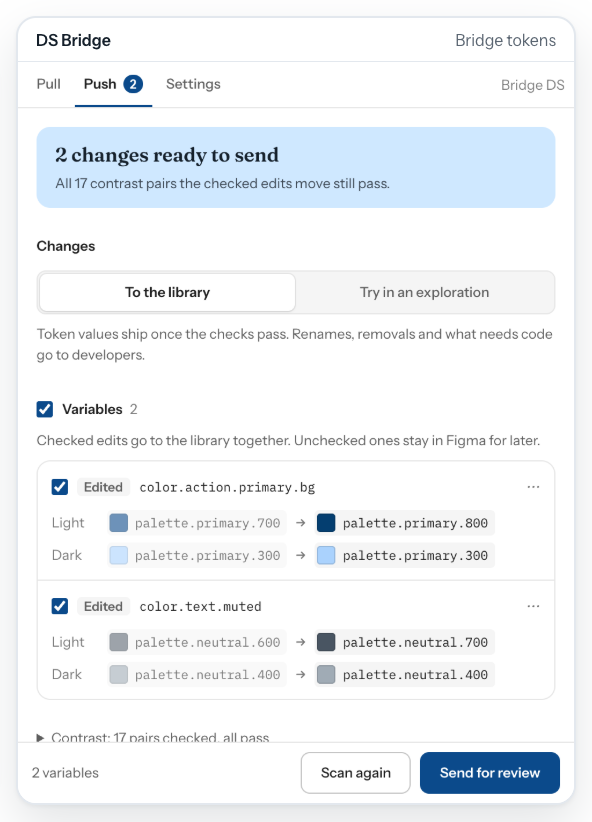
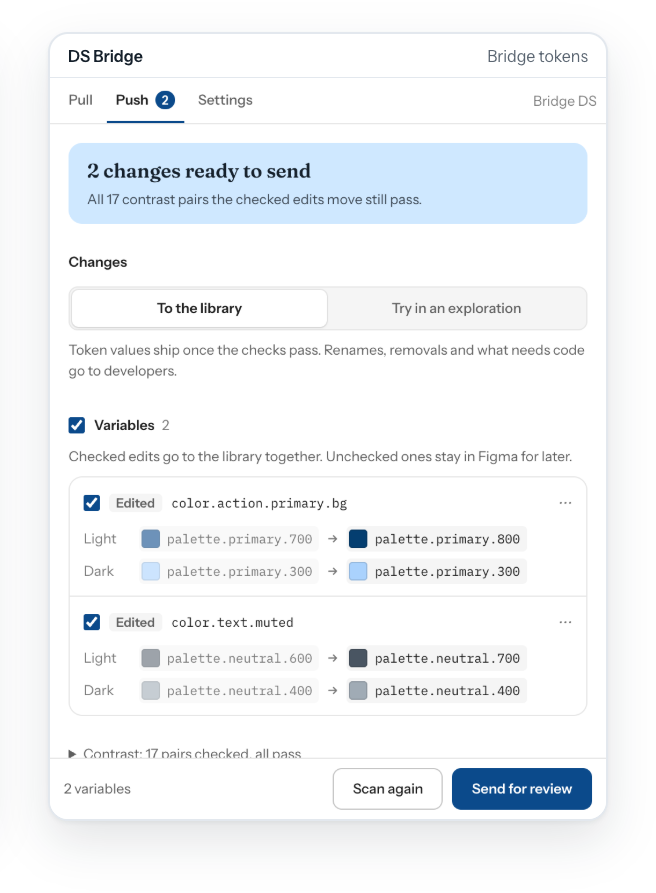
fix(docs-site): /figma-plugin/ review fixes
- Pull window re-captured with "See the 610 variables" open (no empty half); both plugin windows framed on a
  transparent ground with room for their shadow, shown near 1x (max 656 px); on phones the window's top only.
- Two-way picture redrawn on a transparent ground in a light and a dark version, wide and stacked for phones
  (Code card, Pull down and Push up, Figma card); the one matching data-theme shows.
- "What you need" removed; the hero note says it once with a link to create your team.
- /docs/figma-plugin/ Coming next: every item in the future tense.

Claude-Session: https://claude.ai/code/session_0187etdiPhAASKAt4kprBmUy

Changed region(s): [[0.0608, 0.0304, 0.973, 1.0]]

diff --git a/apps/docs-site/src/styles/figma-plugin.css b/apps/docs-site/src/styles/figma-plugin.css
@@ -33,39 +33,33 @@
   color: var(--color-text-default);
 }
 
-/* A real screen, framed like the plugin window: hairline edge, container radius, no shadow. */
+/* A real screen: the plugin windows and the Studio page draw their own edges and shadow, so no second frame. */
 .fp-shot {
   display: block;
   margin: 0;
-  border: var(--border-width-default) solid var(--color-border-default);
-  border-radius: var(--radius-container);
-  overflow: hidden;
-  background-color: var(--color-surface-default);
 }
 
-.fp-shot img {
+/* The two-way picture: transparent PNGs drawn for each theme (light and dark plates), the one matching data-theme
+   shows. Its plates sit a little inside the image: on wide screens it is pulled out by that inset so the Code card
+   lines up with the title. */
+.fp-hero-shot {
+  grid-column: 1 / -1;
+  margin: var(--space-4) 0 0;
+}
+
+.fp-hero-shot img {
   display: block;
   width: 100%;
   height: auto;
 }
 
-.fp-hero-shot {
-  grid-column: 1 / -1;
-  margin-top: var(--space-4);
+.fp-theme-dark,
+:root[data-theme="dark"] .fp-theme-light {
+  display: none;
 }
 
-/* The cover band is a light capture with a white margin around its cards: on a dark page it reads as one rounded
-   white plate; on the light page the margin melts into the page, so the band is pulled out by it to line up the cards
-   with the title. */
-.fp-hero-shot {
-  margin-inline: calc(var(--space-3) * -1);
-}
-
-/* The cover band and the plugin window draw their own cards and edges: no second frame (no nested cards). */
-.fp-hero-shot,
-.fp-panel {
-  border: 0;
-  background-color: transparent;
+:root[data-theme="dark"] .fp-theme-dark {
+  display: block;
 }
 
 /* ---------- how it works: the screens inside the step panel ---------- */
@@ -75,35 +69,30 @@
   height: auto;
 }
 
-/* The plugin window is tall: about the size Figma gives it, so it reads at 1x and the step text stays beside it.
-   The screenshot carries the window's own edge and shadow. */
+/* The plugin window at its own size (560 px, plus the room its shadow takes), so its text reads at 1x beside the step
+   text. */
 .fp-panel {
-  max-width: calc(var(--size-96) + var(--space-10));
+  max-width: calc(var(--size-140) + var(--space-24));
 }
 
-/* The Studio page is wide: it takes the whole panel, not the drawings' column, so its text stays readable. */
-.fp .hp-ui:has(.fp-wide),
-.fp .hp-sc:has(.fp-wide) {
+/* The plugin window and the Studio page take the whole panel, not the drawings' column, so their text stays
+   readable. */
+.fp .hp-ui:has(.fp-wide, .fp-panel),
+.fp .hp-sc:has(.fp-wide, .fp-panel) {
   max-width: none;
 }
 
-/* ---------- what you need ---------- */
-.fp-needs {
-  display: flex;
-  flex-direction: column;
-  gap: var(--space-6);
-}
-
-.fp-needs-head {
-  display: flex;
-  flex-wrap: wrap;
-  align-items: center;
-  justify-content: space-between;
-  gap: var(--space-4) var(--space-6);
-}
-
-.fp-needs-list strong {
-  color: var(--color-text-default);
+/* On a phone the whole window would shrink its text: show its top (the banner and the first variables) instead, the
+   window itself as wide as the panel (its transparent shadow margin, 48 of 656 px a side, overflows). */
+@media (max-width: 699px) {
+  .fp-panel {
+    width: calc(100% * 656 / 560);
+    max-width: none;
+    margin-inline: calc(100% * -48 / 560);
+    aspect-ratio: 656 / 500;
+    object-fit: cover;
+    object-position: top;
+  }
 }
 
 /* ---------- the Harbor band: the way to Bridge ---------- */
@@ -155,7 +144,7 @@
   }
 
   .fp-hero-shot {
-    margin-top: var(--space-8);
+    margin: var(--space-8) calc(var(--space-3) * -1) 0;
   }
 
   .fp-band {
